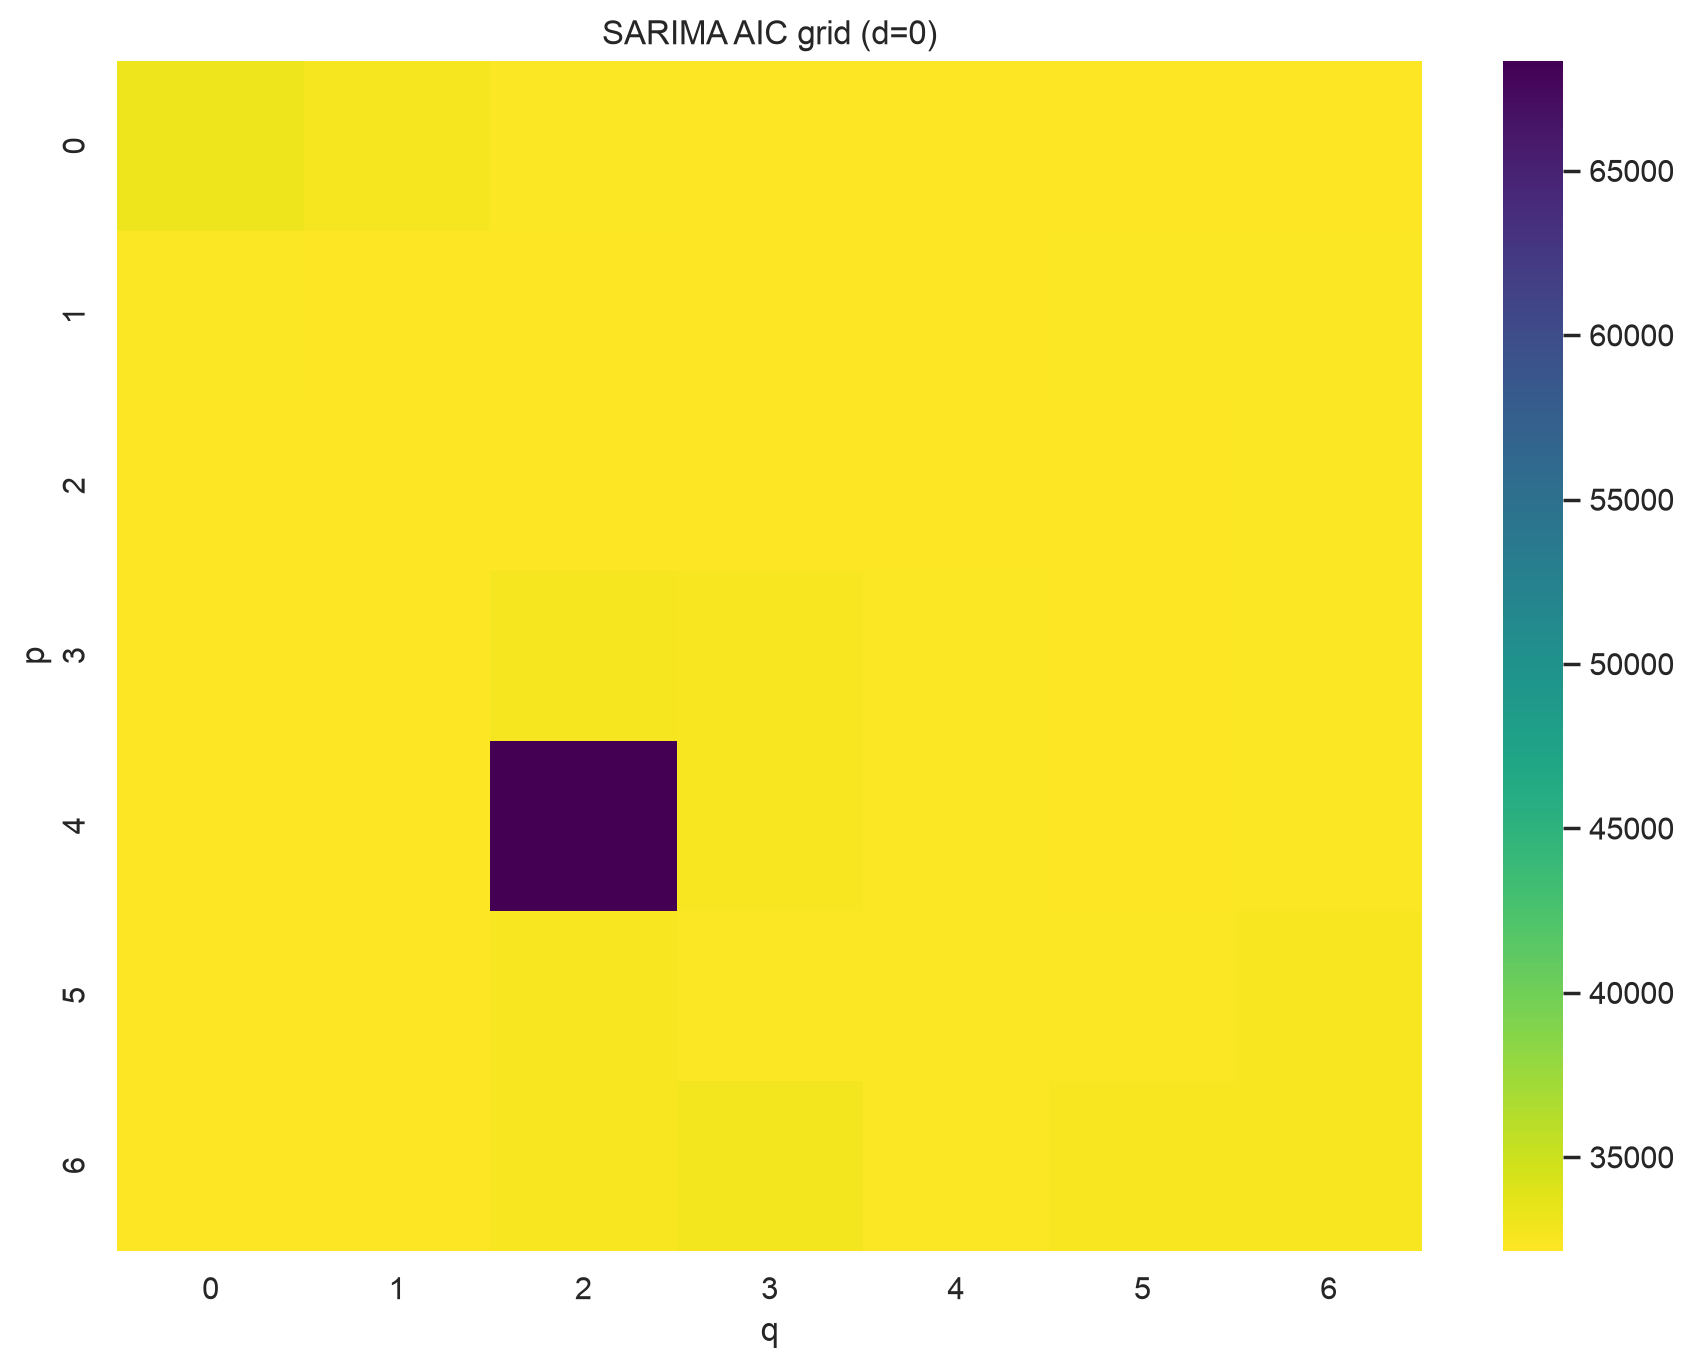
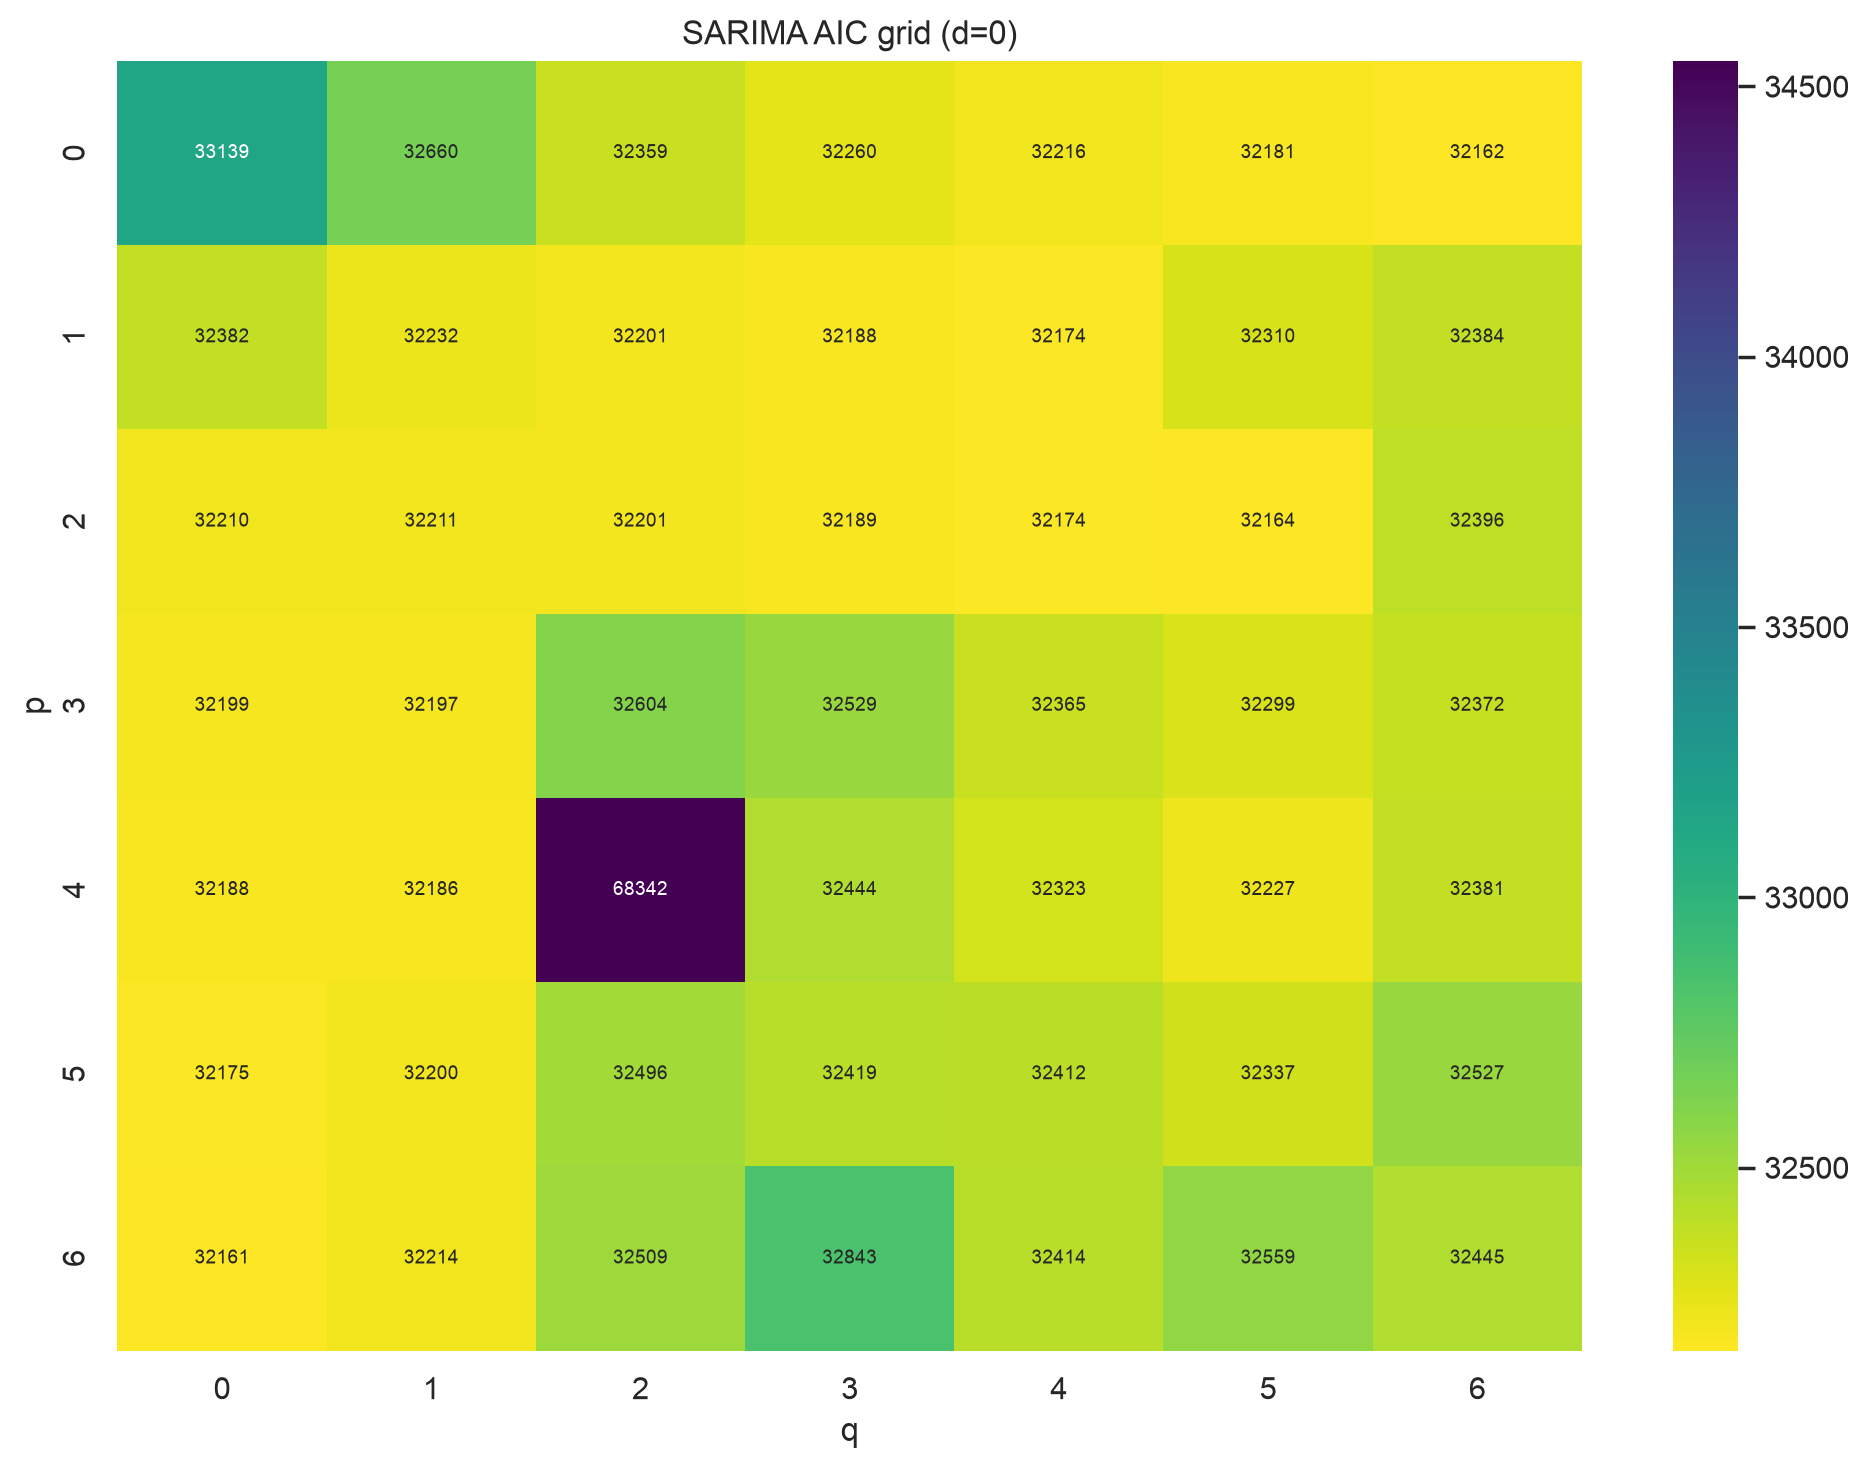
Final version

diff --git a/src/appliance_energy/plotting.py b/src/appliance_energy/plotting.py
@@ -247,14 +247,109 @@ def plot_sarima_grid_heatmap(grid_df: pd.DataFrame, d_value: int, title: str | N
     """
     Heatmap of AIC over (p, q) for a fixed d, from the SARIMA grid search
     results table (columns: p, d, q, aic).
+
+    ``robust=True`` colour-scales off the 2nd/98th percentile of AIC
+    rather than its true min/max: a handful of over-parameterised (p, q)
+    combinations are numerically unstable and land AIC values many
+    thousands higher than every sensible candidate, which would
+    otherwise stretch the colour scale so far that the actually
+    converged, informative cells all render as a single flat colour.
+    Annotating each cell with its AIC (rounded to the nearest 10) makes
+    the figure readable as a real reference table, not just a colour
+    gradient.
     """
     subset = grid_df[grid_df["d"] == d_value]
     pivot = subset.pivot(index="p", columns="q", values="aic")
 
-    fig, ax = plt.subplots(figsize=(9, 7))
-    sns.heatmap(pivot, annot=False, cmap="viridis_r", ax=ax)
+    fig, ax = plt.subplots(figsize=(10, 7.5))
+    sns.heatmap(
+        pivot,
+        annot=True,
+        fmt=".0f",
+        annot_kws={"fontsize": 7},
+        cmap="viridis_r",
+        robust=True,
+        ax=ax,
+    )
     ax.set_title(title or f"SARIMA AIC grid (d={d_value})")
     ax.set_xlabel("q")
     ax.set_ylabel("p")
+    fig.tight_layout()
+    return fig
+
+
+def plot_feature_ablation(ablation_df: pd.DataFrame, title: str = "Feature-group ablation (XGBoost)"):
+    """
+    MASE per feature-group configuration, from the ablation study
+    (columns: model [feature-group label], MASE). ``run_feature_group_ablation``
+    returns its rows sorted by MASE ascending, so bars run best-to-worst
+    left-to-right; the best (green) bar is never the full-feature-set
+    configuration, which is the point being visualised.
+    """
+    fig, ax = plt.subplots(figsize=(9, 5.5))
+    colours = ["tab:green" if v == ablation_df["MASE"].min() else "tab:blue" for v in ablation_df["MASE"]]
+    ax.bar(ablation_df["model"], ablation_df["MASE"], color=colours)
+    for i, v in enumerate(ablation_df["MASE"]):
+        ax.text(i, v + 0.01, f"{v:.3f}", ha="center", fontsize=9)
+    ax.set_title(title)
+    ax.set_ylabel("MASE (lower = better)")
+    ax.tick_params(axis="x", rotation=20)
+    fig.tight_layout()
+    return fig
+
+
+def plot_foundation_forecast(
+    test: pd.Series,
+    foundation_forecast: pd.Series,
+    foundation_ci: pd.DataFrame | None = None,
+    title: str = "Chronos (zero-shot) rolling forecast - full test period",
+):
+    """Standalone full-test-period plot of the foundation model forecast with its quantile band."""
+    fig, ax = plt.subplots(figsize=(14, 6))
+    test.plot(ax=ax, label="Actual", color="black", linewidth=2)
+    foundation_forecast.plot(ax=ax, label="Chronos (zero-shot)", color="tab:purple", linewidth=1.3)
+    if foundation_ci is not None:
+        ax.fill_between(
+            foundation_ci.index,
+            foundation_ci["lower"],
+            foundation_ci["upper"],
+            color="tab:purple",
+            alpha=0.15,
+            label="10-90% interval",
+        )
+    ax.set_title(title)
+    ax.set_xlabel("Date")
+    ax.set_ylabel("Appliances (Wh)")
+    ax.legend()
+    fig.tight_layout()
+    return fig
+
+
+def plot_sarimax_variant_comparison(
+    test: pd.Series,
+    sarimax_univariate: pd.Series,
+    sarimax_exog: pd.Series,
+    days: int = 6,
+    title: str = "SARIMAX: target-only vs. + exogenous weather",
+):
+    """
+    Zoomed comparison of the two SARIMAX variants against actuals, to
+    make visible (not just tabulated) that the exogenous variant does
+    not track the actuals any more closely than the univariate one.
+    """
+    window_index = test.index[: days * 24]
+
+    fig, ax = plt.subplots(figsize=(13, 5.5))
+    test.loc[window_index].plot(ax=ax, label="Actual", color="black", linewidth=2.2)
+    sarimax_univariate.loc[window_index].plot(
+        ax=ax, label="SARIMAX (target-only)", color="tab:blue", linewidth=1.4
+    )
+    sarimax_exog.loc[window_index].plot(
+        ax=ax, label="SARIMAX (+ exogenous weather)", color="tab:red", linewidth=1.4, linestyle="--"
+    )
+    ax.set_title(title)
+    ax.set_xlabel("Date")
+    ax.set_ylabel("Appliances (Wh)")
+    ax.legend()
     fig.tight_layout()
     return fig

diff --git a/src/appliance_energy/pipeline.py b/src/appliance_energy/pipeline.py
@@ -165,6 +165,13 @@ def run_pipeline(
     fig = P.plot_sarima_grid_heatmap(grid_df, d_value=best_order[1])
     _save_fig(fig, config.FIGURE_DIR / "09_sarima_aic_heatmap.png")
 
+    # Makes the "exogenous weather doesn't help" finding (Part 9, Q2/Q5)
+    # visible, not just tabulated: the two forecast lines should track
+    # each other closely rather than the +exog line visibly tracking the
+    # actuals better.
+    fig = P.plot_sarimax_variant_comparison(test, sarimax_uni_forecast, sarimax_exog_forecast)
+    _save_fig(fig, config.FIGURE_DIR / "15_sarimax_univariate_vs_exog.png")
+
     # ----------------------------------------------------------------
     # 5+6. Feature table + feature-based ML model
     # ----------------------------------------------------------------
@@ -193,6 +200,12 @@ def run_pipeline(
     ablation_df.to_csv(config.METRICS_DIR / "feature_ablation.csv", index=False)
     print(ablation_df)
 
+    # Makes the "more features made it worse" finding (Part 9, Q3) visible
+    # as a figure, not just a table - the full-feature bar should NOT be
+    # the tallest-green (best) bar.
+    fig = P.plot_feature_ablation(ablation_df)
+    _save_fig(fig, config.FIGURE_DIR / "16_feature_ablation.png")
+
     # ----------------------------------------------------------------
     # 7. Foundation model
     # ----------------------------------------------------------------
@@ -213,11 +226,14 @@ def run_pipeline(
         foundation_path = config.FORECAST_DIR / "foundation_forecast.csv"
         foundation_result = pd.read_csv(foundation_path, index_col=0, parse_dates=True)
         forecasts["foundation_model"] = foundation_result["foundation_model"]
-        # foundation_result also carries foundation_lower/foundation_upper
-        # quantile columns (Chronos's 10-90% interval); plotted alongside
-        # the SARIMAX confidence interval in notebooks/06_foundation_model.ipynb
-        # rather than here, to keep the main comparison figure below readable
-        # with only one uncertainty band.
+
+        foundation_ci = None
+        if {"foundation_lower", "foundation_upper"}.issubset(foundation_result.columns):
+            foundation_ci = foundation_result[["foundation_lower", "foundation_upper"]].rename(
+                columns={"foundation_lower": "lower", "foundation_upper": "upper"}
+            )
+        fig = P.plot_foundation_forecast(test, forecasts["foundation_model"], foundation_ci)
+        _save_fig(fig, config.FIGURE_DIR / "17_foundation_model_forecast.png")
 
     # ----------------------------------------------------------------
     # 8. Consolidated evaluation
